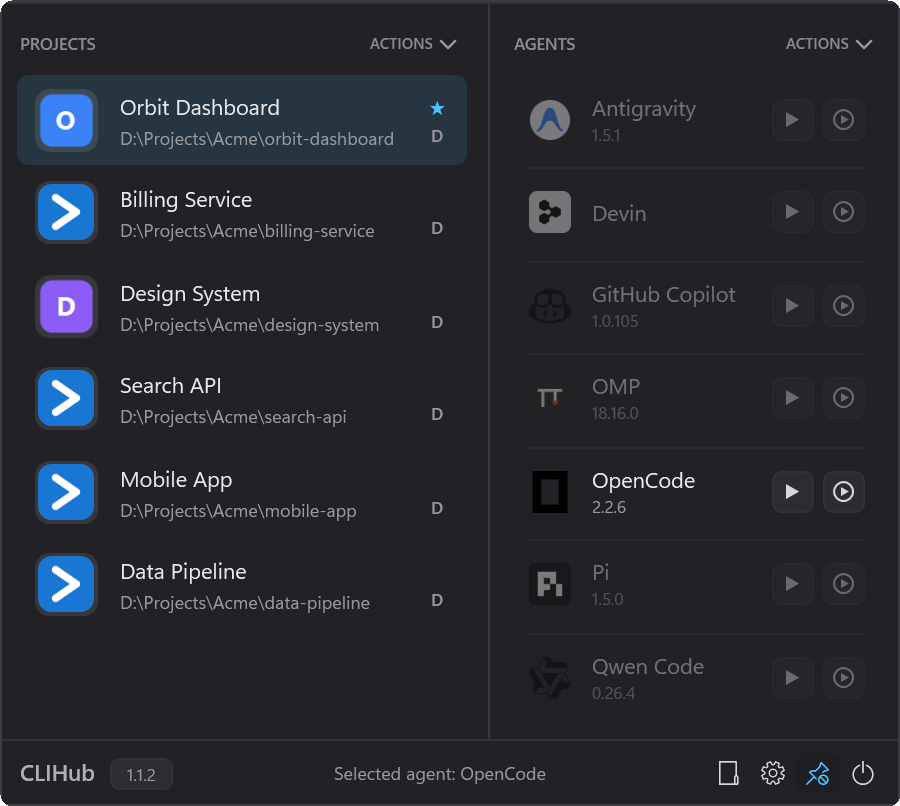
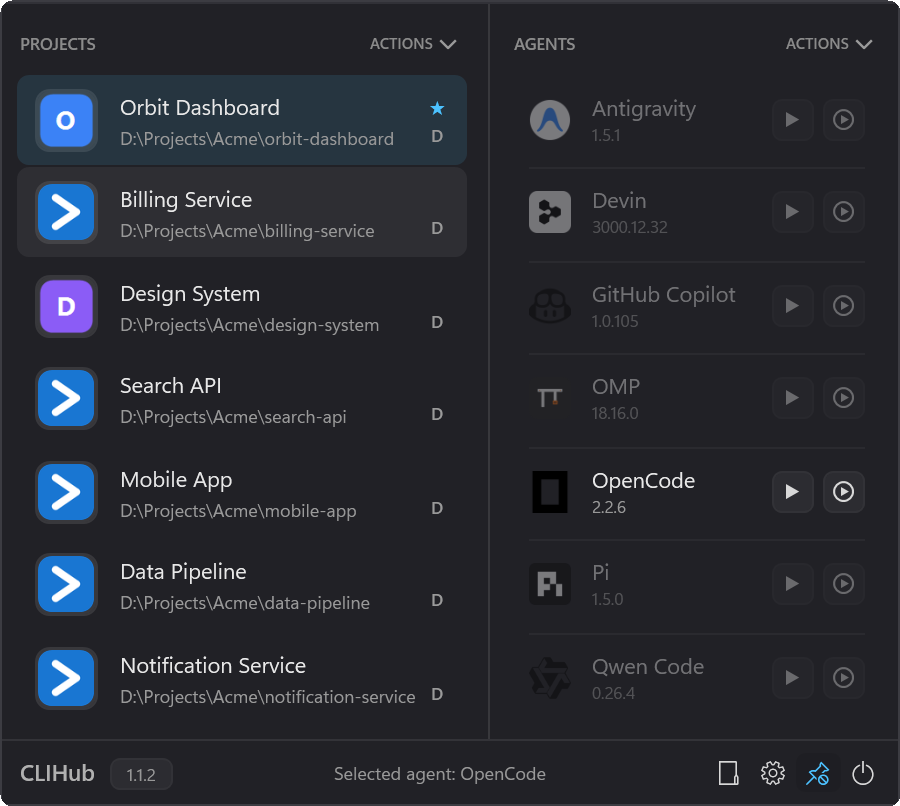
docs(images): refresh screenshots for the Ctrl+Alt+Space hotkey and seventh project

diff --git a/docs/images/src/banner.html b/docs/images/src/banner.html
@@ -249,7 +249,7 @@
       <div class="keys">
         <div class="key">Ctrl</div>
         <div class="plus">+</div>
-        <div class="key">Shift</div>
+        <div class="key">Alt</div>
         <div class="plus">+</div>
         <div class="key accent">Space</div>
       </div>

diff --git a/docs/images/src/social-preview.html b/docs/images/src/social-preview.html
@@ -263,7 +263,7 @@
       <div class="keys">
         <div class="key">Ctrl</div>
         <div class="plus">+</div>
-        <div class="key">Shift</div>
+        <div class="key">Alt</div>
         <div class="plus">+</div>
         <div class="key accent">Space</div>
       </div>
